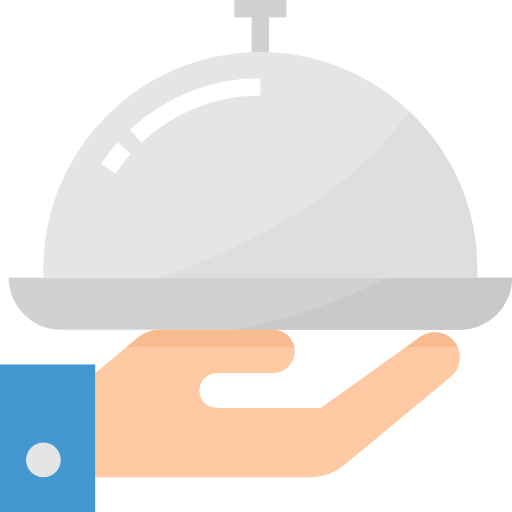
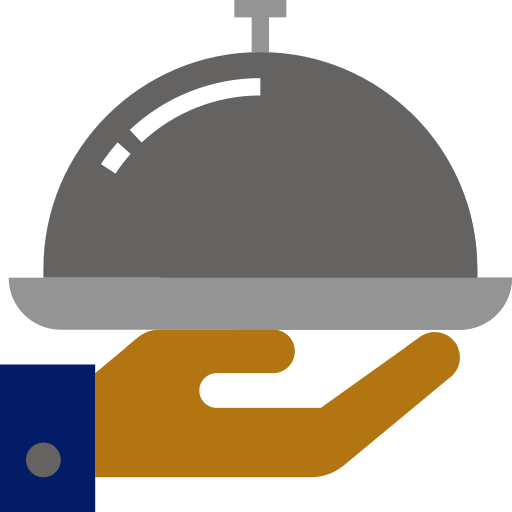
Add color mode snippet and implement theme toggle

diff --git a/src/components/navbar.tsx b/src/components/navbar.tsx
@@ -16,6 +16,7 @@ import {
   MenuRoot,
   MenuTrigger
 } from "@/components/ui/menu";
+import { ColorModeButton } from "@/components/ui/color-mode";
 import { RxHamburgerMenu } from "react-icons/rx";
 import Logo from "./logo";
 
@@ -50,6 +51,7 @@ const Navbar = () => {
           alignItems="center"
           flexGrow={1}
           mt={{ base: 4, md: 0 }}
+          gap={5}
         >
           <NextLink href="/food" onClick={() => router.push('/food')}>
             Food
@@ -60,20 +62,21 @@ const Navbar = () => {
         </Stack>
 
         <Box ml="auto">
-            <Box ml={2} display={{ base: 'inline-block', md:'none' }}>
-              <MenuRoot>
-                <MenuTrigger>
-                  <Icon as={RxHamburgerMenu} w={6} h={6} />
-                </MenuTrigger>
-                <MenuContent>
-                  <NextLink href="/food" onClick={() => router.push('/food')}>
-                    <MenuItem value="Food" _focus={{ boxShadow: "none" }}>Food</MenuItem>
-                  </NextLink>
-                  <NextLink href="/drinks" onClick={() => router.push('/drinks')}>
-                    <MenuItem value="Drinks" _focus={{ boxShadow: "none" }}>Drinks</MenuItem>
-                  </NextLink>
-                </MenuContent>
-              </MenuRoot>
+          <ColorModeButton />
+          <Box ml={2} display={{ base: 'inline-block', md:'none' }}>
+            <MenuRoot>
+              <MenuTrigger>
+                <Icon as={RxHamburgerMenu} w={6} h={6} />
+              </MenuTrigger>
+              <MenuContent>
+                <NextLink href="/food" onClick={() => router.push('/food')}>
+                  <MenuItem value="Food" _focus={{ boxShadow: "none" }}>Food</MenuItem>
+                </NextLink>
+                <NextLink href="/drinks" onClick={() => router.push('/drinks')}>
+                  <MenuItem value="Drinks" _focus={{ boxShadow: "none" }}>Drinks</MenuItem>
+                </NextLink>
+              </MenuContent>
+            </MenuRoot>
           </Box>
         </Box>
 

diff --git a/src/app/page.tsx b/src/app/page.tsx
@@ -1,6 +1,35 @@
+import { Box, Container, Flex, Text } from "@chakra-ui/react";
+
 const Home = () => {
   return (
-    <div>test</div>
+    <Container>
+      <Box
+        maxW="container.xl"
+        borderRadius="lg"
+        p={3}
+        mb={6}
+        alignItems="center"
+      >
+        <Flex
+            direction="column"
+            align="center"
+            justify="center"
+            w="100%"
+            h="100%"
+        >
+          <Flex direction="row" mt="2">
+            <Text
+              fontSize="2xl"
+              fontWeight="bold"
+              mb="4"
+            >
+              Menu Card
+            </Text>
+          </Flex>
+        </Flex>
+      </Box>
+
+    </Container>
   );
 }
 

diff --git a/src/components/logo.tsx b/src/components/logo.tsx
@@ -2,6 +2,7 @@ import Link from "next/link";
 import Image from "next/image";
 import { Text } from "@chakra-ui/react";
 import styled from "@emotion/styled";
+import { useColorModeValue } from "@/components/ui/color-mode";
 
 const LogoBox = styled.span `
   font-weight: bold;
@@ -18,7 +19,7 @@ const LogoBox = styled.span `
 `
 
 const Logo = () => {
-  const navbarImg = "/images/navbarImg.png";
+  const navbarImg = `/images/navbarImg${useColorModeValue('', '-dark')}.png`;
 
   return (
     <Link href="/" scroll={false}>
